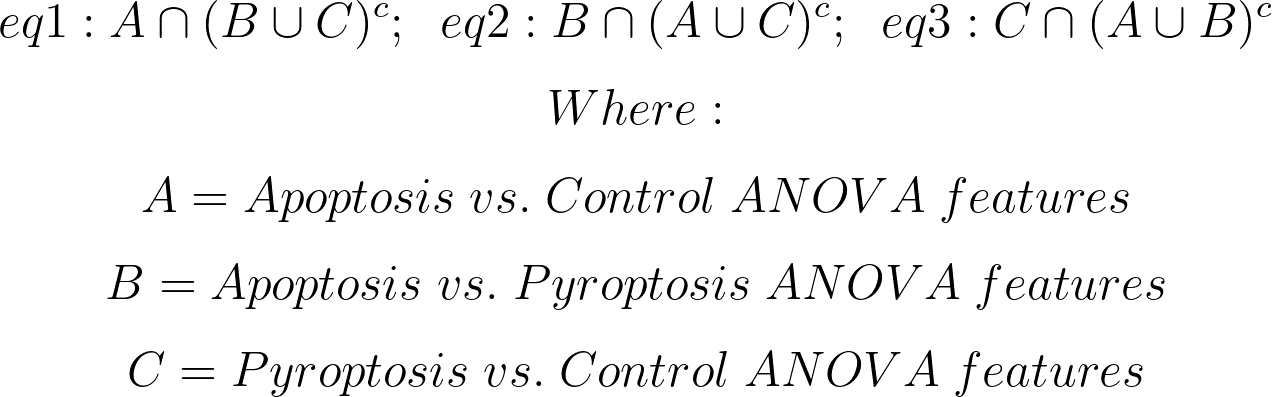
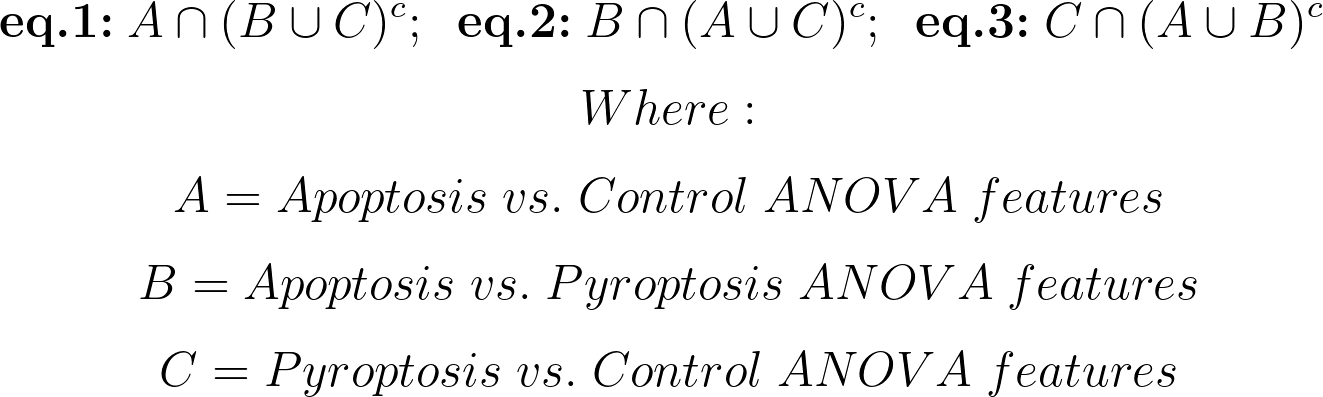
equations

diff --git a/figures/eq1/scripts/equations.py b/figures/eq1/scripts/equations.py
@@ -52,7 +52,7 @@ out_path.mkdir(parents=True, exist_ok=True)
 
 
 latex_string = r"""
-$$\; eq1: A \cap (B \cup C)^c ; \; \; eq2: B \cap (A \cup C)^c ; \; \; eq3: C \cap (A \cup B)^c\; $$
+$$\textbf{eq.1:}\; A \cap (B \cup C)^c ; \; \; \textbf{eq.2:} \; B \cap (A \cup C)^c ; \; \; \textbf{eq.3:}\; C \cap (A \cup B)^c\; $$
 $$Where: $$
 $$A = Apoptosis \; vs. \; Control \; ANOVA \; features$$
 $$B = Apoptosis \; vs. \; Pyroptosis \; ANOVA \; features$$
@@ -60,4 +60,26 @@ $$C = Pyroptosis \; vs. \; Control \; ANOVA \; features$$
 """
 
 latex2png(latex_string, "../figures/equations.png", fontsize=300)
+Math(latex_string)
+
+
+# Equations 4-6
+
+# $\tilde{A} = corr(Y,U)$
+# $\tilde{B} = corr(X,V)$
+# $u_k = \frac{1}{P} \sum^P_{p=1} \tilde a^2_{pk}$
+# $v_k = \frac{1}{Q} \sum^Q_{q=1} \tilde b^2_{qk}$
+# $RI_u = u_k * r^2_k$
+# $RI_v = v_k * r^2_k$
+
+# In[5]:
+
+
+latex_string = r"""
+$$\textbf{eq.4:}\; \tilde{A} = corr(Y,U) ;\; \;  \textbf{eq.5:}\; \tilde{B} = corr(X,V)$$
+$$\textbf{eq.6:}\; u_k = \frac{1}{P} \sum^P_{p=1} \tilde a^2_{pk} ;\; \; \textbf{eq.7:}\;v_k = \frac{1}{Q} \sum^Q_{q=1} \tilde b^2_{qk}$$
+$$\textbf{eq.8:}\; RI_u = u_k * r^2_k ;\; \; \textbf{eq.9:}\;RI_v = v_k * r^2_k$$
+"""
+
+latex2png(latex_string, "../figures/equations4_9.png", fontsize=300)
 Math(latex_string)
